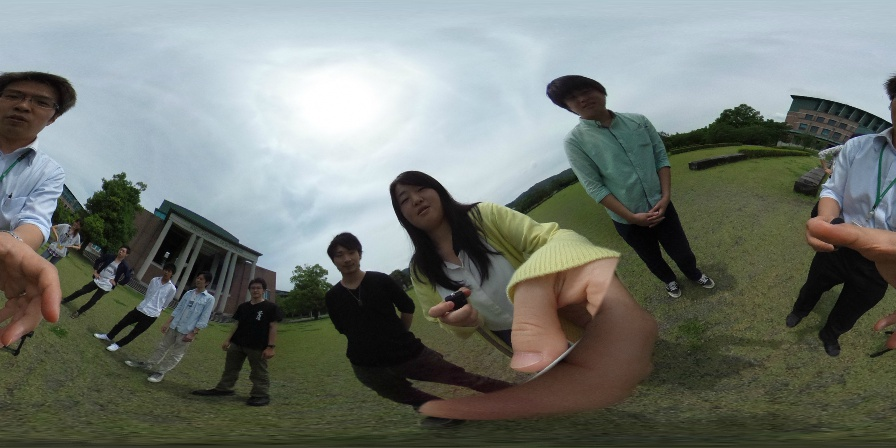
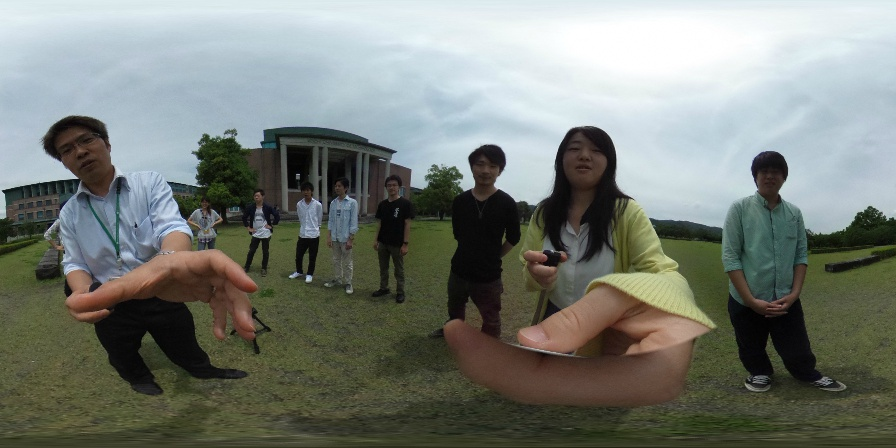
rotate img commit

diff --git a/hr_newfun/function_approximation.py b/hr_newfun/function_approximation.py
@@ -111,11 +111,20 @@ def make_sin_bin(trapezoid_line, width, height, newton_count, newton_threshold, 
                 if tangent_bool:
                     sin_bin[amp][phs] += 1
 
-    bin_max_index = np.argmax(sin_bin)
-    phs_i = bin_max_index % phs_trans
-    amp_i = bin_max_index / phs_trans
+    sin_bin_max = np.max(sin_bin)
+    index_phs = np.array([])
+    index_amp = np.array([])
+    for phs_i in range(0, phs_trans):
+        for amp_i in range(0, amp_trans):
+            if sin_bin_max == sin_bin[amp_i][phs_i]:
+                index_phs = np.append(index_phs, phs_i)
+                index_amp = np.append(index_amp, amp_i)
+                print (amp_i, phs_i)
 
-    phs_ask = phs_i * math.pi / 180
+    phs_i = index_phs.mean()
+    amp_i = index_amp.mean()
+
+    phs_ask = phs_i
     amp_ask = amp_i
 
     return phs_ask, amp_ask
@@ -168,7 +177,7 @@ def approximation_vertex(trapezoid_line, width, height, newton_count, newton_thr
             break
     '''
 
-    sin_vertex_x = width * (phase/(2*math.pi))
+    sin_vertex_x = phase
     sin_vettex_y = amplitude
 
     return sin_vertex_x, sin_vettex_y

diff --git a/hr_newfun/sphere_rerotate.py b/hr_newfun/sphere_rerotate.py
@@ -40,13 +40,13 @@ if __name__ == "__main__":
     print ('start line detection')
 
     vertex_x, vertex_y = line.line_detection(img, 45)
-    transverse = (width/4 - vertex_x) / r
-    longitudinal = rad_conv(vertex_y)
+    transverse = rad_conv(vertex_x)
+    longitudinal = rad_conv(-vertex_y)
 
     print ('end line detection')
     print ('start make rotate matrix')
 
-    matrix = rotate.rerotate(transverse, 0, longitudinal)
+    matrix = rotate.rerotate(transverse, longitudinal, 0)
 
     print ('start rotate image')
     for h in range(height):

diff --git a/hough_rotate/sphere_rerotate.py b/hough_rotate/sphere_rerotate.py
@@ -41,8 +41,10 @@ if __name__ == "__main__":
     transverse = (vertex_x - width/4) / r
     longitudinal = (height/2 - vertex_y) / r
 
+    print (transverse, longitudinal)
+
     print ('make rotate matrix')
-    matrix = rotate.rerotate(transverse, longitudina, 0)
+    matrix = rotate.rerotate(transverse, longitudinal, 0)
 
     print ('rotate image')
     for h in range(height):

diff --git a/hough_rotate/function_approximation.py b/hough_rotate/function_approximation.py
@@ -81,6 +81,7 @@ def make_sin_bin(trapezoid_line, width, height, newton_count, newton_threshold, 
     phs_i = bin_max_index % phs_trans
     amp_i = bin_max_index / phs_trans
 
+
     phs_ask = phs_i * math.pi / 180
     amp_ask = amp_i
 
